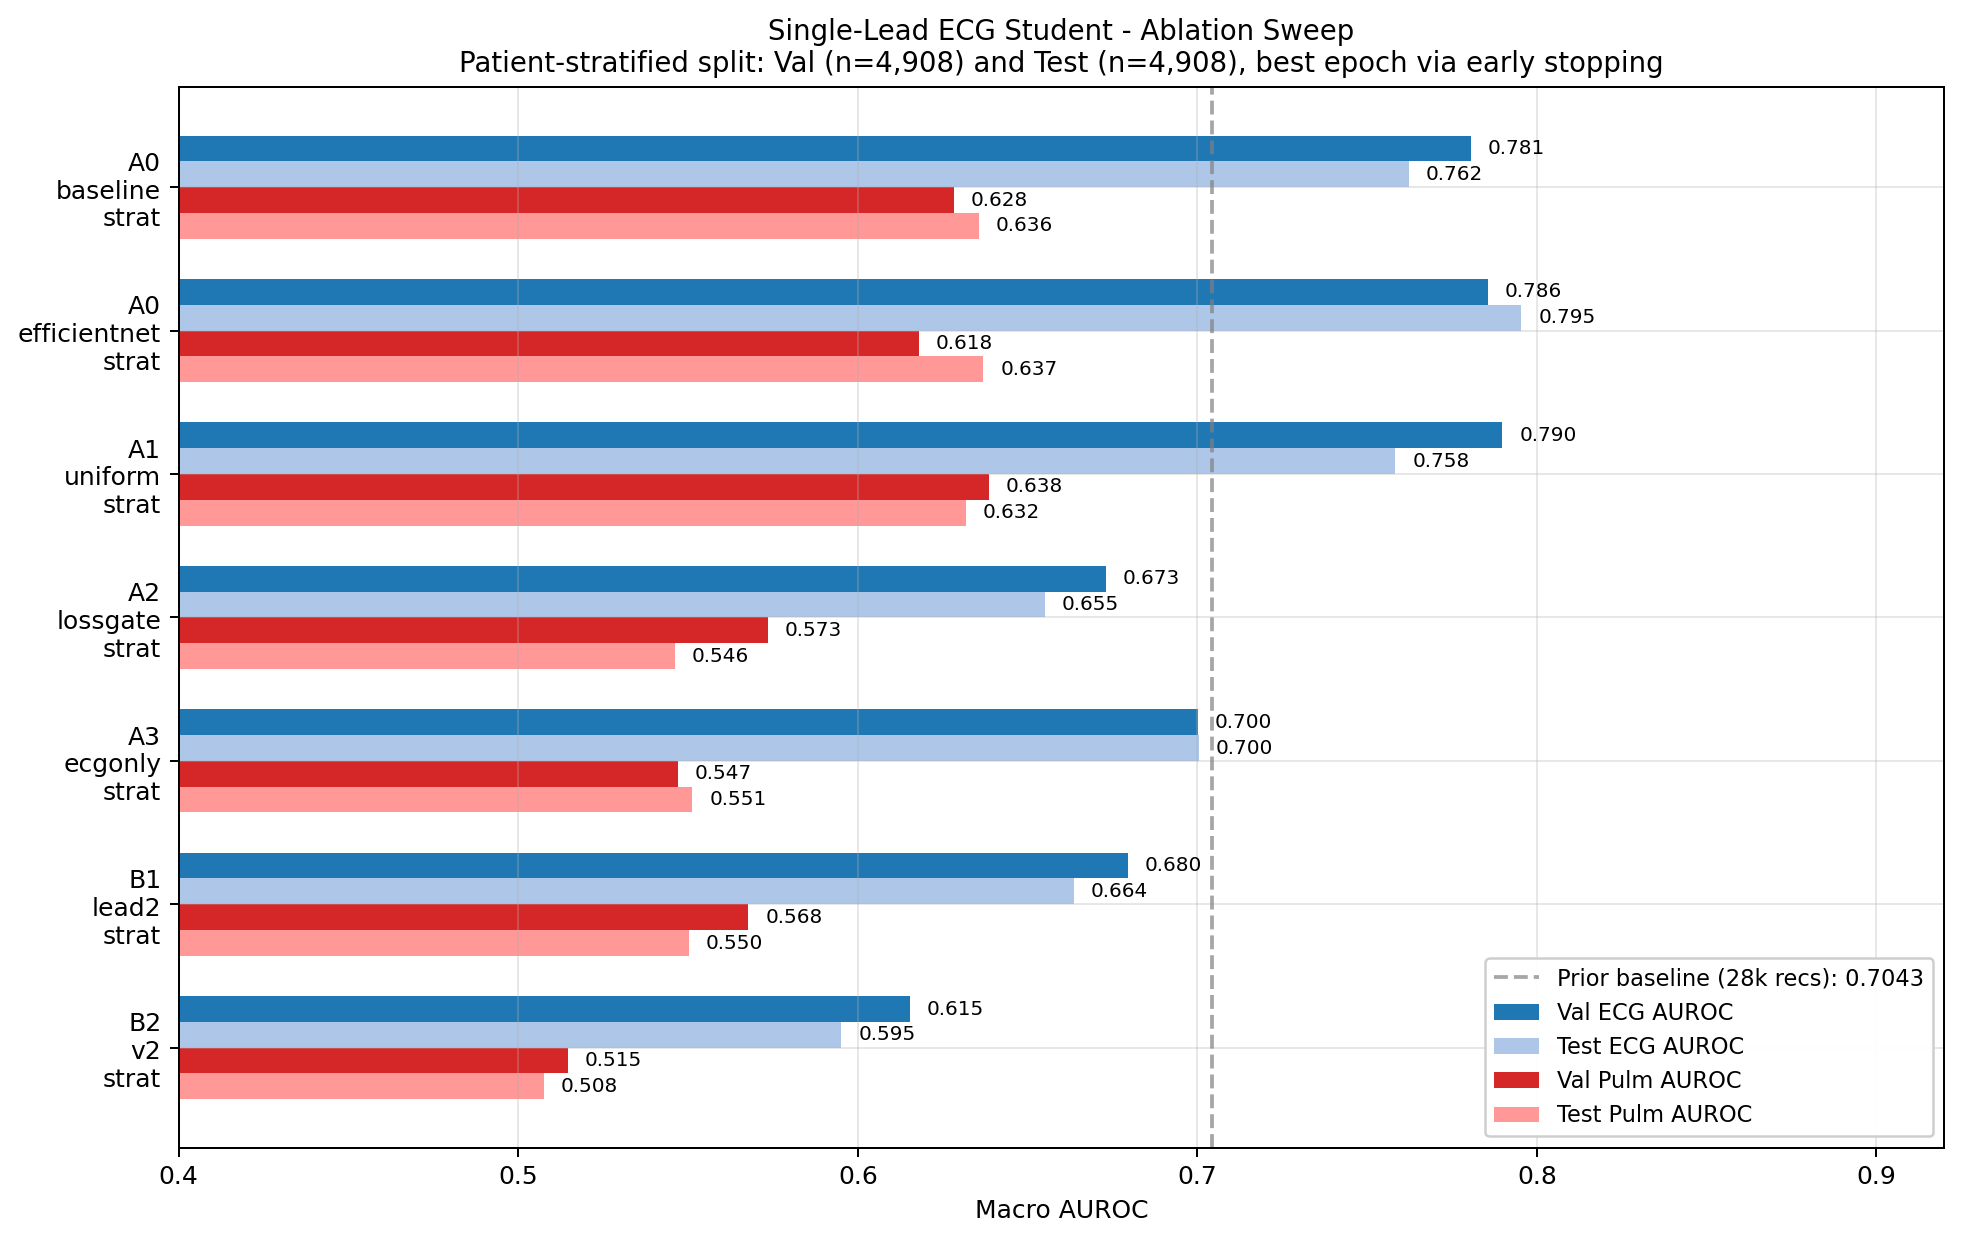
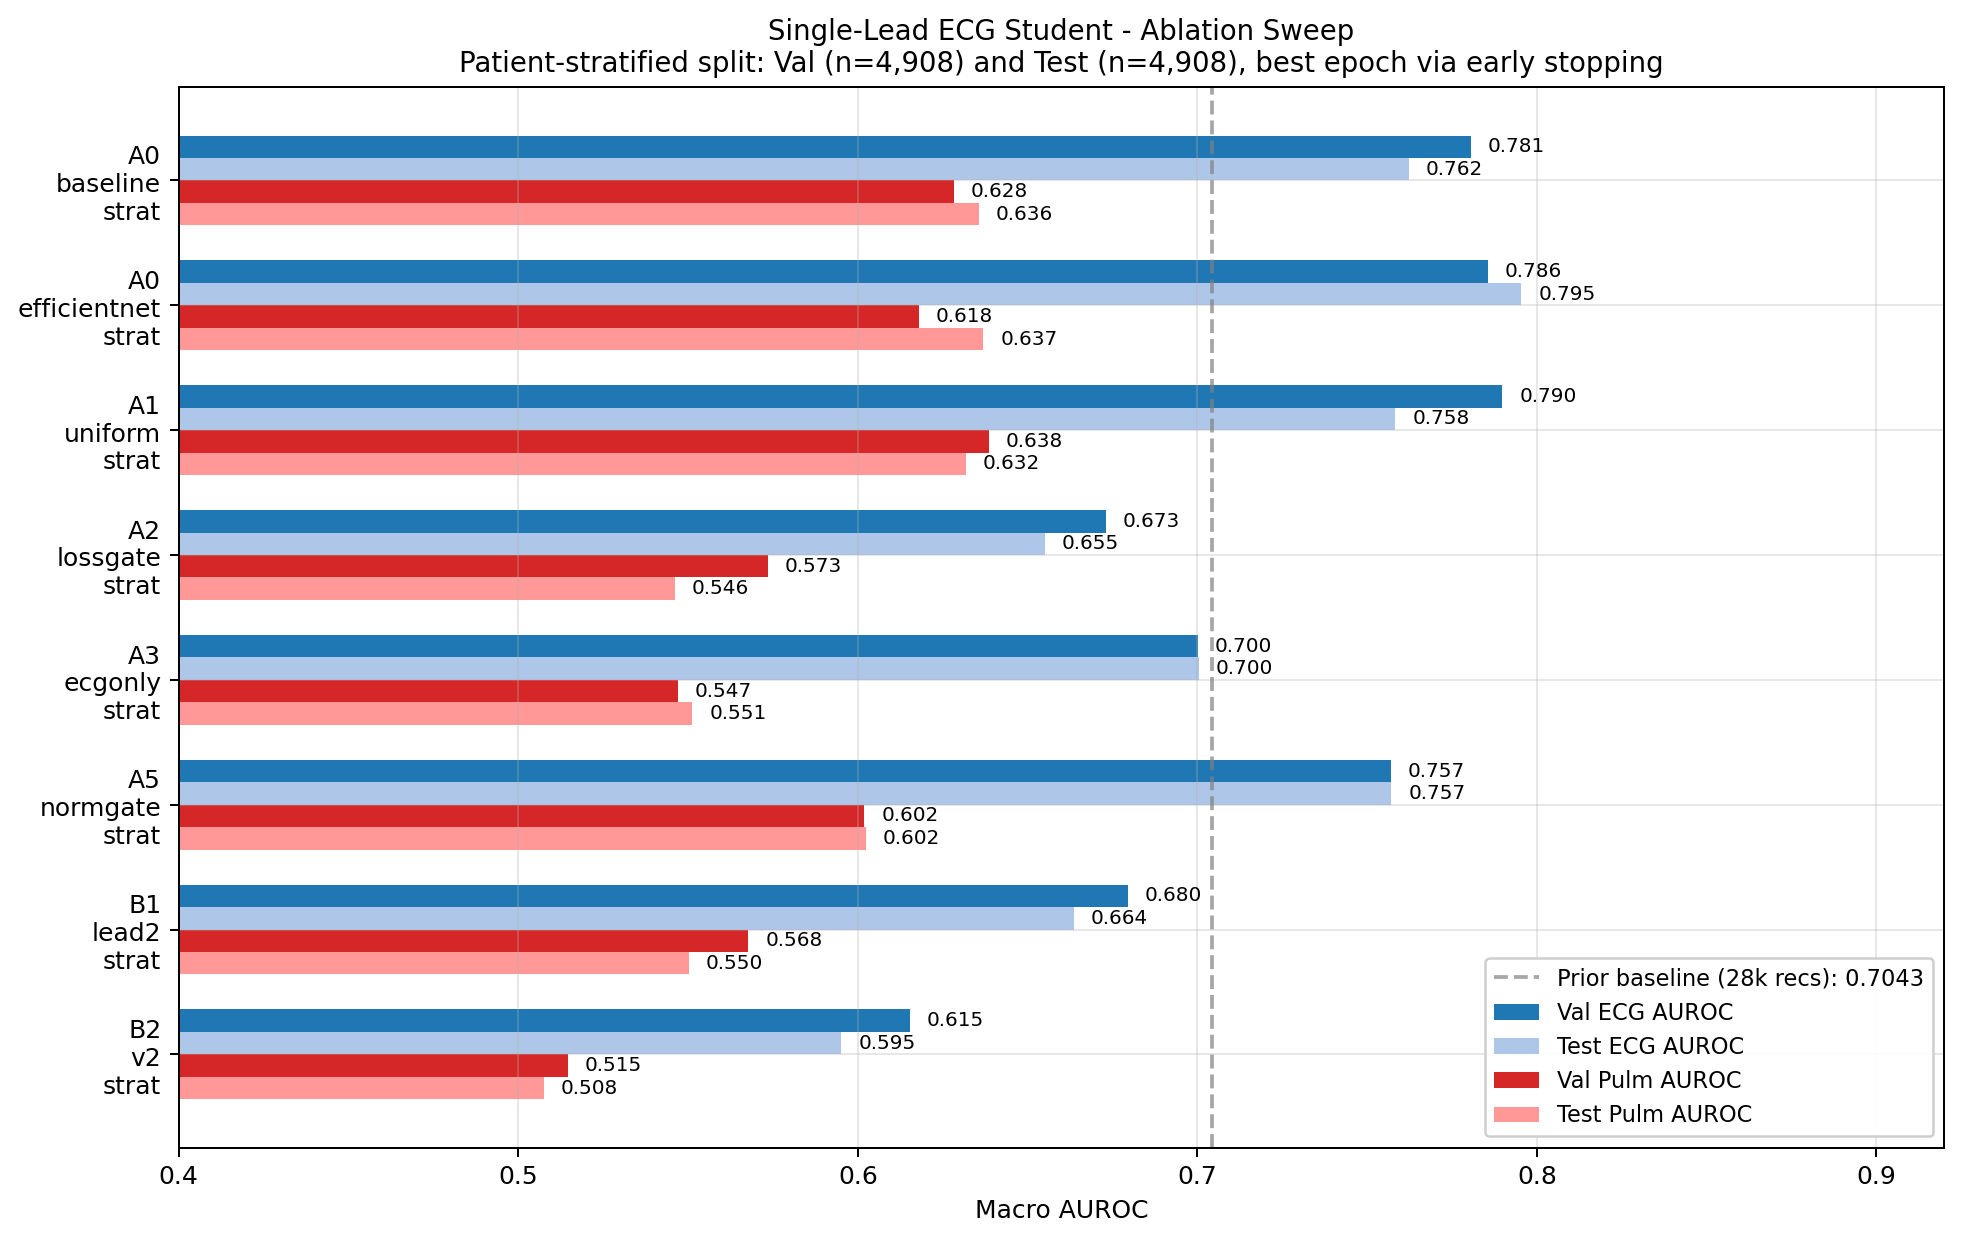
Updating the ReadMe and adding the additional figures

diff --git a/scripts/generate_report_figures.py b/scripts/generate_report_figures.py
@@ -38,8 +38,10 @@ RUNS = [
     ("A0_baseline_strat",     "MobileNetV3-S - static, ECG-only, Lead I"),
     ("A0_efficientnet_strat", "EfficientNet-B0 - static, ECG-only, Lead I"),
     ("A1_uniform_strat",      "MobileNetV3-S - uniform 1/5, all mods, Lead I"),
-    ("A2_lossgate_strat",     "MobileNetV3-S - learned gate, all mods, Lead I"),
+    ("A2_lossgate_strat",     "MobileNetV3-S - learned gate (original), all mods, Lead I"),
     ("A3_ecgonly_strat",      "MobileNetV3-S - learned gate, ECG-only, Lead I"),
+    ("A4_correctgate_strat",  "MobileNetV3-S - corrected gate + KL, all mods, Lead I"),
+    ("A5_normgate_strat",     "MobileNetV3-S - corrected gate + norm + KL, all mods, Lead I"),
     ("B1_lead2_strat",        "MobileNetV3-S - learned gate, all mods, Lead II"),
     ("B2_v2_strat",           "MobileNetV3-S - learned gate, all mods, V2"),
 ]

diff --git a/Readme.md b/Readme.md
@@ -10,7 +10,7 @@ Distil a 280M-parameter multimodal teacher (**MoRE**: ECG + Chest X-Ray + Text) 
 | **EfficientNet-B0** | 4.37 M | 16.97 MB | 10.01 ms | **0.7955** | **0.3457** |
 | Prior baseline (28 k records, legacy split) | 1.82 M | 7.07 MB | n/a | 0.7043 (val) | n/a |
 
-> **Headline:** A patient-stratified 80/10/10 split (zero subject overlap, per-class proportions within 0.1 pt across splits) gives an honest read on rare-class generalisation. EfficientNet-B0 wins decisively (test AUROC 0.7955, AUPRC 0.3457 → +28 % over MobileNet). A learned ResidualLossGate over five distillation losses **hurts by 10.7 pts** AUROC vs static weighting and is dropped in the deployment recipe (see `docs/team_report.md` §6). Legacy CXR-derived split numbers are kept as a parallel study in Appendix D.
+> **Headline:** A patient-stratified 80/10/10 split (zero subject overlap, per-class proportions within 0.1 pt across splits) gives an honest read on rare-class generalisation. EfficientNet-B0 wins decisively (test AUROC 0.7955, AUPRC 0.3457 → +28 % over MobileNet). A learned ResidualLossGate over five distillation losses **hurts by 10.7 pts** AUROC vs static weighting; post-analysis confirmed an inverted gradient direction — the gate was trained to avoid hard terms rather than focus on them. The fix (stop-gradient decoupling + KL reinstatement via a frozen LR probe) is queued as **A4_correctgate_strat** (see `docs/team_report.md` §6.3). Legacy CXR-derived split numbers are kept as a parallel study in Appendix D.
 
 ---
 
